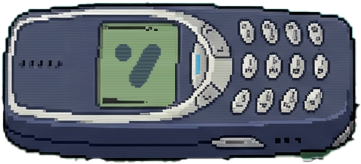
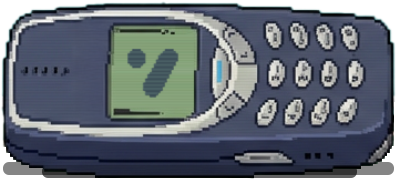
Reduce helper-to-phone gap 450 -> 350, update phoneHoriz art

diff --git a/vectra-crystal-game/index.html b/vectra-crystal-game/index.html
@@ -2742,7 +2742,7 @@ window.addEventListener('error', function(e){
         const phoneSpec = OBSTACLE_SPECS.phone;
         const helperKind = 'phoneHoriz';
         const helperSpec = OBSTACLE_SPECS[helperKind];
-        const HELPER_TO_PHONE_GAP = 450;
+        const HELPER_TO_PHONE_GAP = 350;
         const EDGE_MARGIN = 40;
         const neededWidth = helperSpec.w + HELPER_TO_PHONE_GAP + phoneSpec.w + EDGE_MARGIN*2;
 
